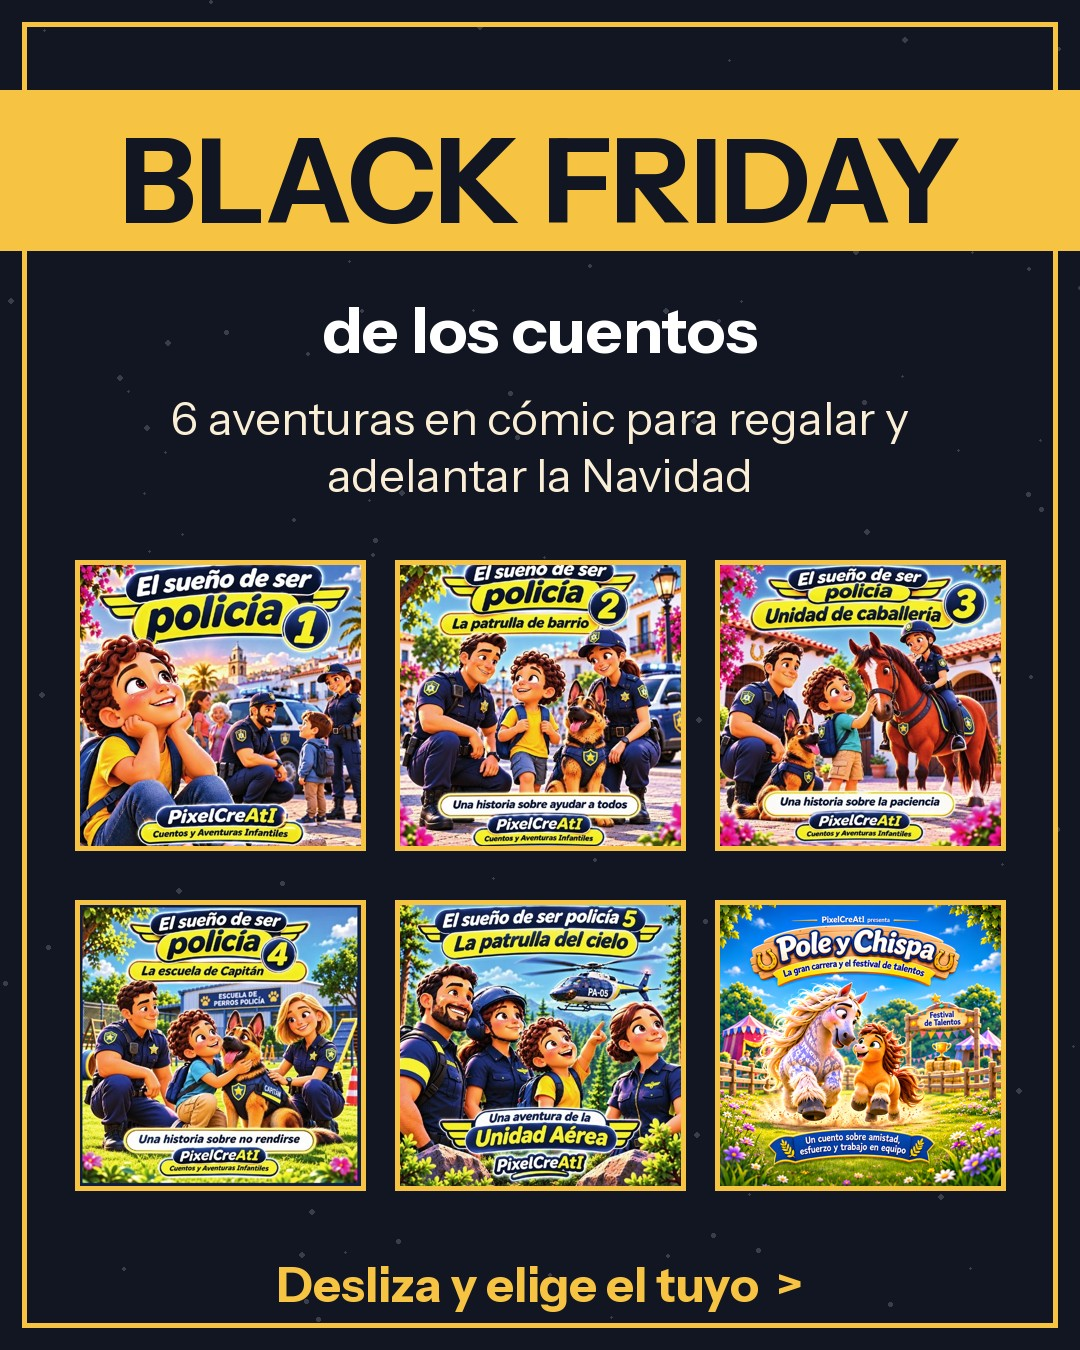
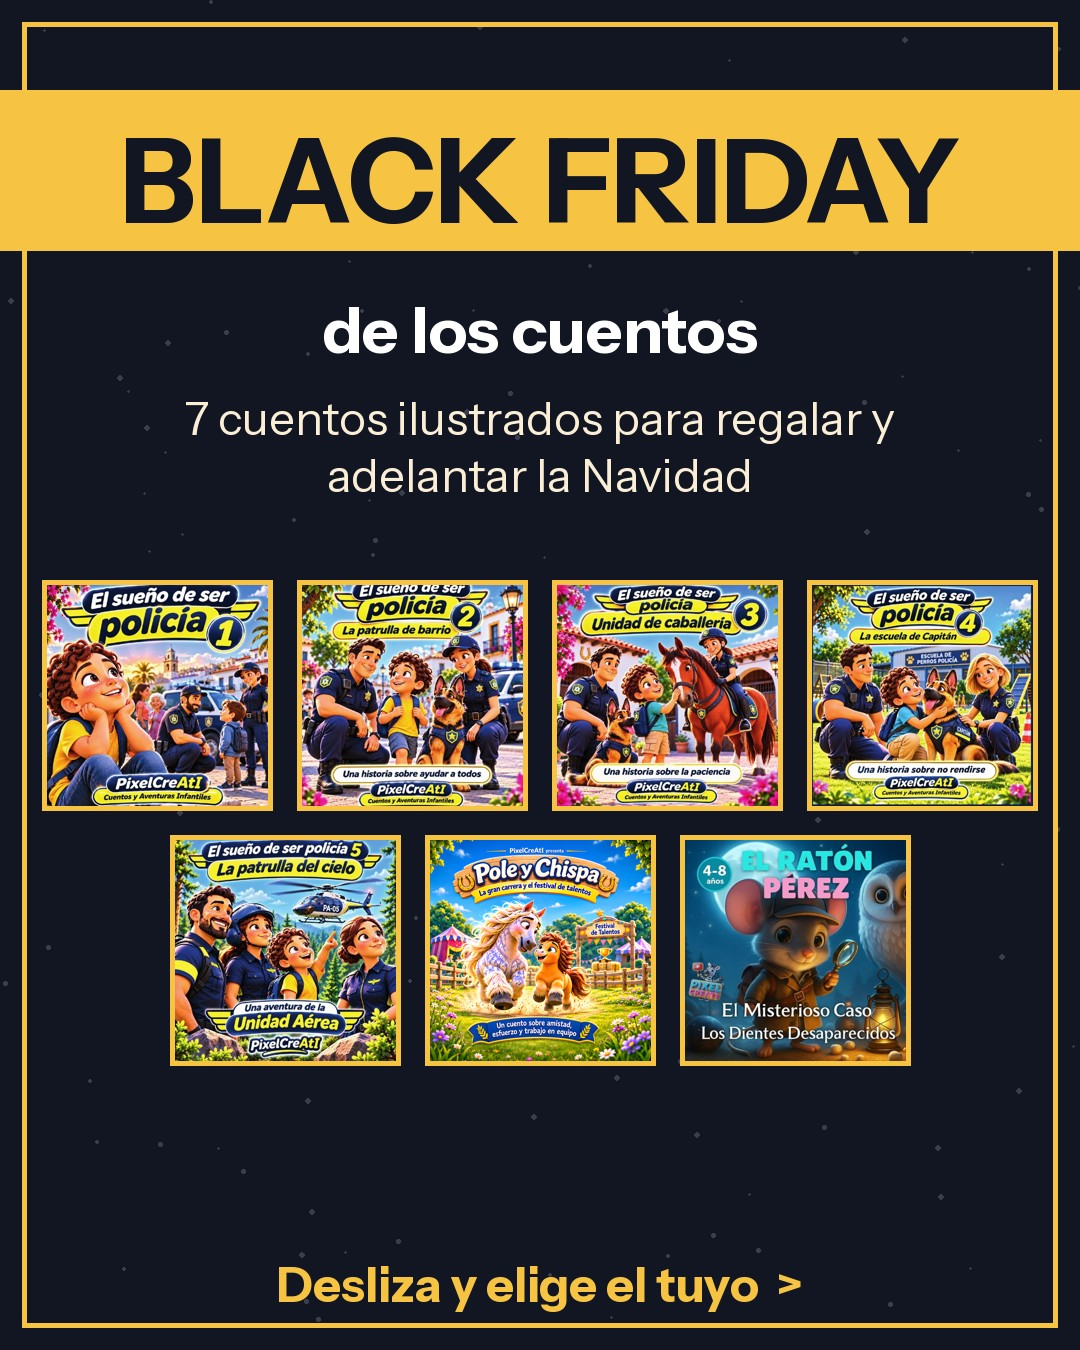
Ratón Pérez en la guía de regalos y en Black Friday y Navidad (#24)
* Campañas Black Friday y Navidad: guía de regalos (6 libros), carrusel e historias BF/Cyber Monday y piezas navideñas de Pole y Chispa

Claude-Session: https://claude.ai/code/session_01YCMVw6rxdgjKcfUwU4SzzV

* Panel del canal: mensaje de Black Friday y Pole y Chispa en ideas de regalo

Claude-Session: https://claude.ai/code/session_01YCMVw6rxdgjKcfUwU4SzzV

* Ratón Pérez en la guía de regalos y en las piezas de Black Friday y Navidad

Claude-Session: https://claude.ai/code/session_01YCMVw6rxdgjKcfUwU4SzzV

* Resuelve conflicto de la fusión

* Regenera difusion.html con el Ratón Pérez

---------

diff --git a/regalos.html b/regalos.html
@@ -6,7 +6,7 @@
 <meta http-equiv="Content-Security-Policy" content="default-src 'none'; style-src 'unsafe-inline'; img-src 'self'; base-uri 'none'; form-action 'none'">
 <meta name="referrer" content="no-referrer">
 <title>Guía de regalos · PixelCreAtI</title>
-<meta name="description" content="Black Friday y Navidad: 6 cuentos en cómic con valores para regalar a peques de 4 a 8 años, en papel y Kindle.">
+<meta name="description" content="Black Friday y Navidad: 7 cuentos ilustrados con valores para regalar a peques de 4 a 8 años, en papel y Kindle.">
 <style>
 :root{--azul:#2F6FB0;--amarillo:#F6C343;--rojo:#92142A;--crema:#FBF3E6;--tinta:#23303D}
 *{box-sizing:border-box}
@@ -32,7 +32,7 @@ a{color:var(--azul)}
 <body>
 <main>
 <div class="cab"><h1>🎁 Guía de regalos<br>Black Friday y Navidad</h1>
-<p>6 aventuras en cómic con valores para peques de 4 a 8 años. Con actividades para hablar en familia.</p></div>
+<p>7 cuentos ilustrados con valores para peques de 4 a 8 años. Con actividades para hablar en familia.</p></div>
 <article class="ficha"><img src="img/regalos/pole-chispa.jpg" width="400" height="400" alt="Portada de ¡Nuevo! Pole y Chispa: La gran carrera y el festival de talentos" loading="lazy">
 <div><h2>¡Nuevo! Pole y Chispa</h2><p class="sub">La gran carrera y el festival de talentos</p><p>Para los amantes de los caballos: amistad, esfuerzo y no rendirse.</p><div class="btns"><a class="btn" href="https://www.amazon.es/dp/B0D444YRQT" rel="noopener">Tapa blanda</a><a class="btn alt" href="https://www.amazon.es/dp/B0D44B8Y4H" rel="noopener">Kindle</a></div></div></article>
 <article class="ficha"><img src="img/regalos/libro-5.jpg" width="400" height="400" alt="Portada de ¡Nuevo! El sueño de ser policía 5: La patrulla del cielo" loading="lazy">
@@ -45,6 +45,8 @@ a{color:var(--azul)}
 <div><h2>El sueño de ser policía 3</h2><p class="sub">Unidad de Caballería</p><p>Para peques con miedos y mucho corazón: paciencia y emociones.</p><div class="btns"><a class="btn" href="https://www.amazon.es/dp/B0HQGQ192R" rel="noopener">Ver en Amazon</a></div></div></article>
 <article class="ficha"><img src="img/regalos/libro-4.jpg" width="400" height="400" alt="Portada de El sueño de ser policía 4: La escuela de Capitán" loading="lazy">
 <div><h2>El sueño de ser policía 4</h2><p class="sub">La escuela de Capitán</p><p>Para los que adoran a los perros: los miedos se vencen poco a poco.</p><div class="btns"><a class="btn" href="https://www.amazon.es/dp/B0HQTTPR65" rel="noopener">Ver en Amazon</a></div></div></article>
+<article class="ficha"><img src="img/regalos/raton-perez.jpg" width="400" height="400" alt="Portada de El Ratón Pérez: el misterioso caso de los dientes desaparecidos" loading="lazy">
+<div><h2>El Ratón Pérez</h2><p class="sub">El misterioso caso de los dientes desaparecidos</p><p>Para los pequeños detectives: un misterio con lupa, pistas y mucha ternura.</p><div class="btns"><a class="btn" href="https://www.amazon.es/dp/B0D417ZZRC" rel="noopener">Tapa blanda</a></div></div></article>
 <p class="nota">💡 Si lo quieres para Nochebuena, pídelo con tiempo: los plazos de entrega los indica Amazon en cada ficha. Los libros 1 a 4 de «El sueño de ser policía» también se pueden leer con Kindle Unlimited.</p>
 <p class="nota">🎒 ¿Aún no tienes el regalo de bienvenida? <a href="kit.html">Maletín de Pequeño Agente gratis</a> · <a href="club.html">Únete al Club de Aventuras</a></p>
 <footer><a href="index.html">PixelCreAtI</a> · Ilustraciones creadas con ayuda de IA. Página sin cookies ni seguimiento. · <a href="privacidad.html">Privacidad</a></footer>

diff --git a/difusion.html b/difusion.html
@@ -53,7 +53,7 @@ Opciones de la encuesta:
 - Pedir ayuda y quedarse en un lugar seguro
 - Separarse para buscar el camino</textarea></section><section id="m6"><h2>6. viernes 27/11 · Mensaje: Black Friday: guía de regalos</h2><textarea readonly rows="9">🖤 Black Friday de los cuentos
 
-Os hemos preparado una guía con nuestras 6 aventuras en cómic para regalar esta Navidad (4-8 años), cada una con su valor: seguridad, observar, paciencia, no rendirse, trabajo en equipo… ¡y la nueva de Pole y Chispa! 🐴
+Os hemos preparado una guía con nuestros 7 cuentos ilustrados para regalar esta Navidad (4-8 años), cada una con su valor: seguridad, observar, paciencia, no rendirse, trabajo en equipo… ¡la nueva de Pole y Chispa! 🐴 y el misterio del Ratón Pérez 🦷
 
 En papel y Kindle: https://pixelcreati.github.io/regalos.html</textarea></section><section id="m7"><h2>7. sábado 28/11 · Foto + texto: Presentamos el libro 1</h2><p class="nota">📷 Adjunta esta imagen: <a href="img/portada-1.jpg" download>descargar</a> (mantén pulsado → Guardar en fotos).</p><textarea readonly rows="9">📖 Así empezó todo: «El sueño de ser policía 1»
 
@@ -87,6 +87,7 @@ La colección «El sueño de ser policía» ya tiene 5 cuentos, cada uno con un 
 Consejo: si vuestro peque no los conoce, empezad por el 1.
 
 🐴 Y para los amantes de los caballos, ¡nuevo! «Pole y Chispa», en cómic: https://www.amazon.es/dp/B0D444YRQT
+🦷 Y para los pequeños detectives, «El Ratón Pérez»: https://www.amazon.es/dp/B0D417ZZRC
 🎁 Todos juntos, en papel y Kindle: https://pixelcreati.github.io/regalos.html</textarea></section><section id="m13"><h2>13. jueves 10/12 · Encuesta: Encuesta: formato</h2><textarea readonly rows="9">¿Cómo leéis los cuentos en casa?
 
 Opciones de la encuesta:
@@ -113,7 +114,7 @@ Libro 4 en Amazon: https://www.amazon.es/dp/B0HQTTPR65</textarea></section><sect
 
 En «El Ratón Pérez: el misterioso caso de los dientes desaparecidos» un detective muy pequeño resuelve un gran misterio. Perfecto para el primer diente.
 
-En Amazon: https://amzn.eu/d/8PC95v8</textarea></section><section id="m18"><h2>18. lunes 21/12 · Encuesta: Encuesta: qué queréis en el canal</h2><textarea readonly rows="9">¿Qué os gustaría ver más en el Club en 2027?
+En Amazon: https://www.amazon.es/dp/B0D417ZZRC</textarea></section><section id="m18"><h2>18. lunes 21/12 · Encuesta: Encuesta: qué queréis en el canal</h2><textarea readonly rows="9">¿Qué os gustaría ver más en el Club en 2027?
 
 Opciones de la encuesta:
 - Actividades para imprimir

diff --git a/index.html b/index.html
@@ -34,7 +34,7 @@ footer{margin-top:32px;font-size:.85rem;text-align:center}
 <a class="boton destacado" style="background:#F6C343;color:#23303D;border-color:#F6C343" href="kit.html">🎁 Gratis: Maletín de Pequeño Agente<span>15 páginas de misiones, juegos y diploma para imprimir (4-8 años)</span></a>
 <p class="aviso" style="text-align:center;margin:8px 4px 0">Descarga sin registro ni correo. ¿Quieres saber cuándo salga el siguiente? <a href="kit.html#avisos">Apúntate a las novedades</a> (opcional).</p>
 
-<a class="boton destacado" style="background:#92142A;border-color:#F6C343" href="regalos.html">🎁 Guía de regalos: Black Friday y Navidad<span>6 aventuras en cómic para peques de 4 a 8 años, en papel y Kindle</span></a>
+<a class="boton destacado" style="background:#92142A;border-color:#F6C343" href="regalos.html">🎁 Guía de regalos: Black Friday y Navidad<span>7 cuentos ilustrados para peques de 4 a 8 años, en papel y Kindle</span></a>
 
 <h2>🐴 Nuevo: Pole y Chispa en cómic</h2>
 <a class="boton destacado" style="background:#F07C5C;border-color:#F07C5C" href="https://www.amazon.es/dp/B0D444YRQT" rel="noopener">Pole y Chispa · nueva edición en cómic<span>La gran carrera y el festival de talentos: una aventura sobre amistad y esfuerzo</span></a>
@@ -47,7 +47,7 @@ footer{margin-top:32px;font-size:.85rem;text-align:center}
 <a class="boton" href="https://www.amazon.es/dp/B0D7SR382J" rel="noopener">Libro 1: El sueño de ser policía<span>Donde empieza la aventura de Pablo y el agente Juan</span></a>
 
 <h2>📚 Más cuentos</h2>
-<a class="boton" href="https://amzn.eu/d/8PC95v8" rel="noopener">🦷 El Ratón Pérez: el misterioso caso de los dientes desaparecidos</a>
+<a class="boton" href="https://www.amazon.es/dp/B0D417ZZRC" rel="noopener">🦷 El Ratón Pérez: el misterioso caso de los dientes desaparecidos</a>
 <a class="boton" href="https://www.amazon.com/-/es/stores/author/B0D9C88MTV" rel="noopener">Todos los libros en Amazon<span>Todos los cuentos de PixelCreAtI</span></a>
 
 <h2>▶ Cuentos gratis en vídeo</h2>
